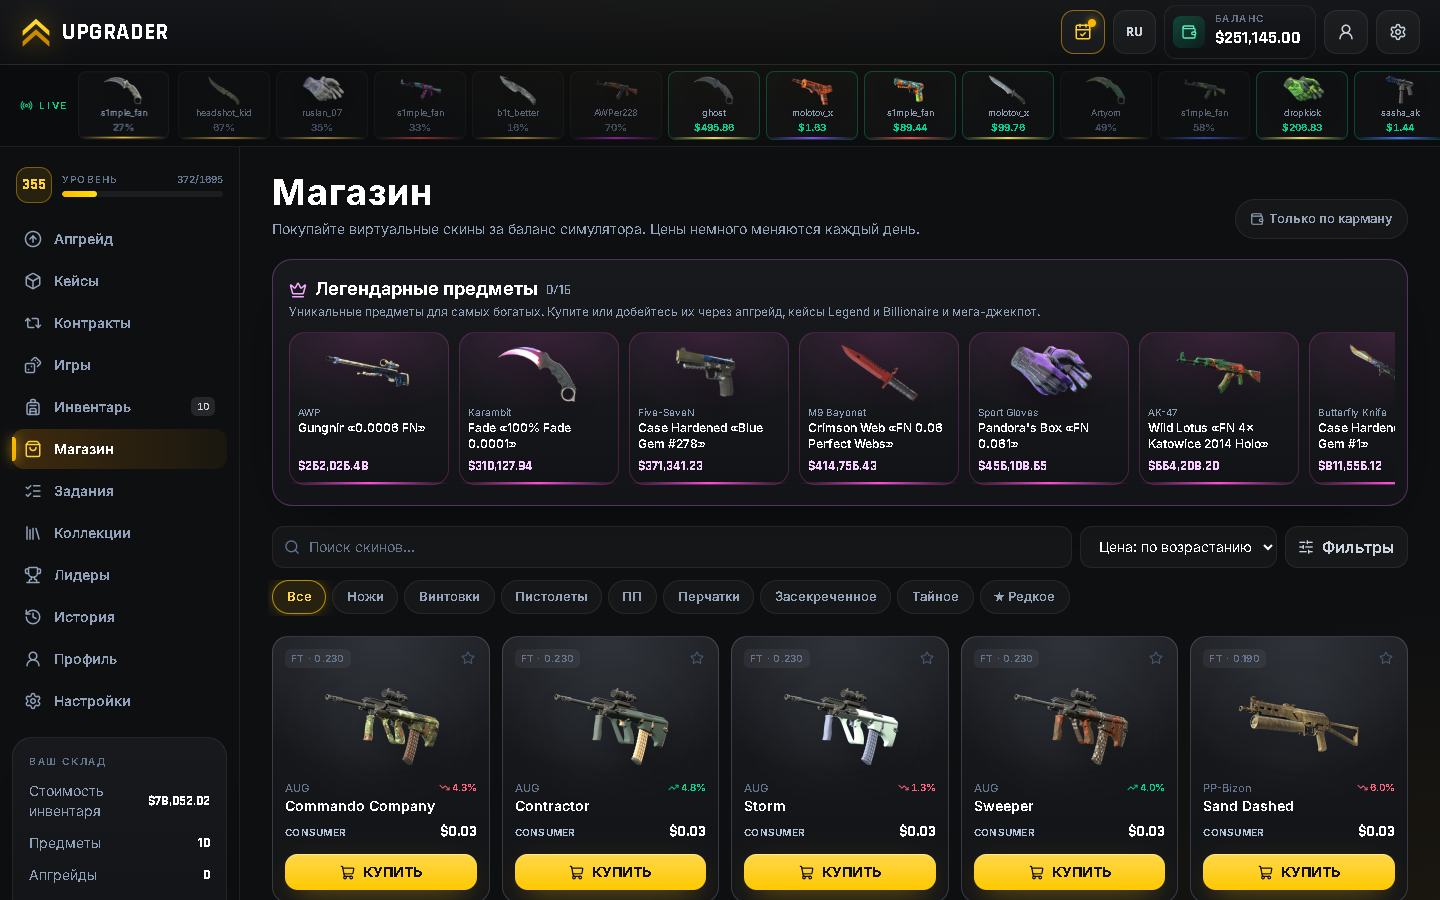
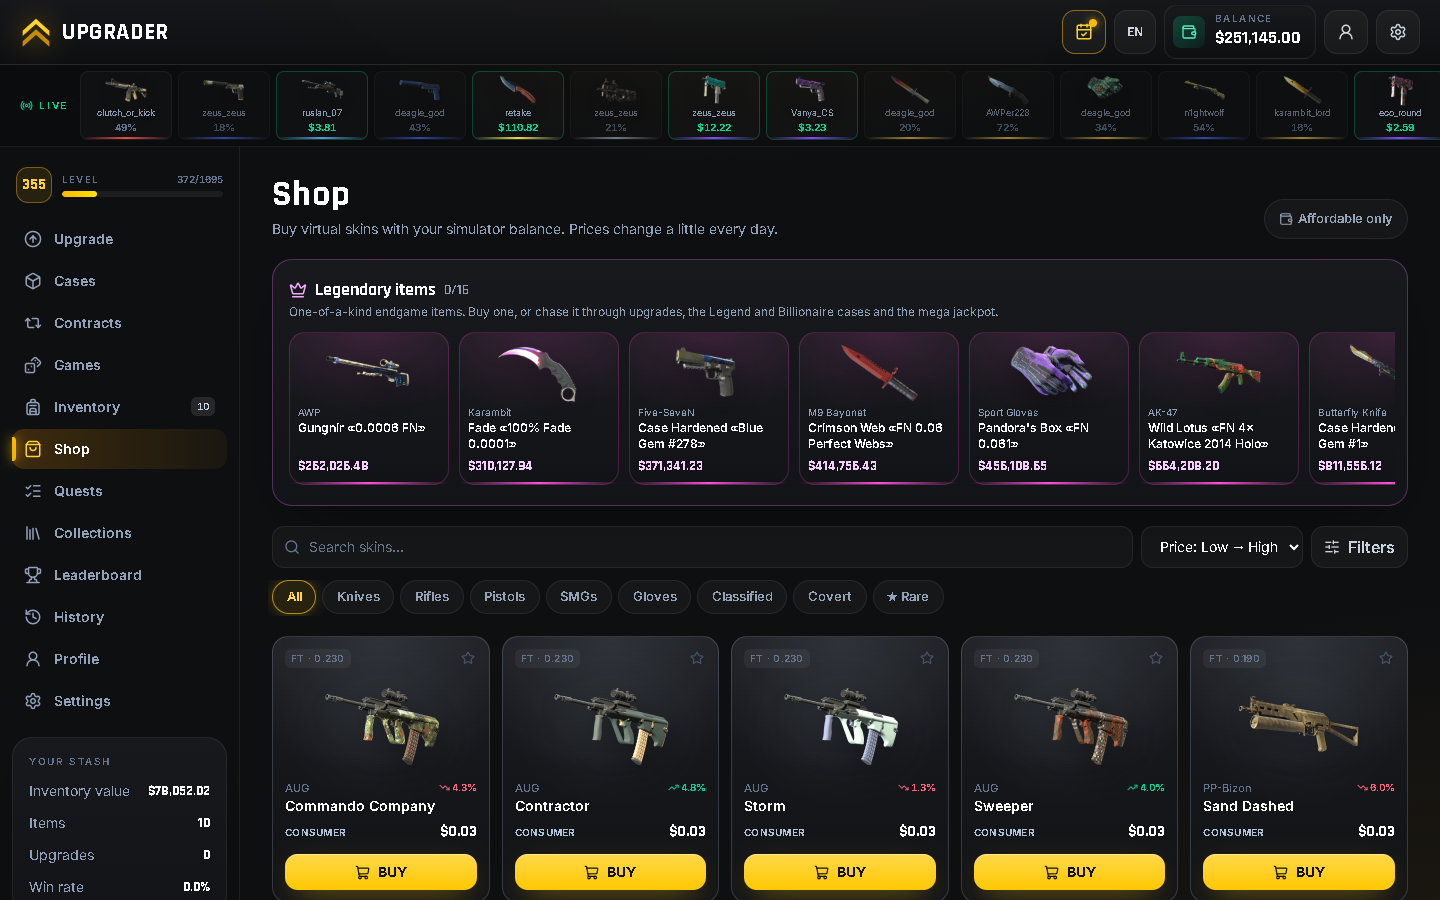
Translate README to English and retake screenshots in English

diff --git a/README.md b/README.md
@@ -1,109 +1,109 @@
 # Case Battle — CS2 Upgrader Simulator
 
-Браузерный симулятор CS2 с апгрейдами, кейсами, контрактами и мини-играми. Все деньги в нём виртуальные: нет депозитов, вывода средств и транзакций Steam. Прогресс хранится в браузере.
+A browser simulator of CS2 skin upgrades, cases, trade-up contracts and mini-games. All money is virtual. There are no deposits, withdrawals or Steam transactions. Progress is stored in your browser.
 
-**▶ Играть:** upgraader.netlify.app
+**▶ Play:** https://upgraader.netlify.app
 
-![Апгрейд](docs/screenshots/upgrade.png)
+![Upgrade](docs/screenshots/upgrade.png)
 
-## Возможности
+## Features
 
-- **Апгрейд.** Ставка из нескольких скинов и баланса, пресеты x2/x4/x8 и 35/55/75%. После серии проигрышей шанс немного растёт.
-- **1895 скинов.** Всё оружие, ножи и перчатки CS2 с картинками из Steam. Цены реальные (Skinport), отдельно для каждого износа (FN–BS) и StatTrak™, от $0.03 до $35 000. Каждый день цены немного колеблются.
-- **Легендарные предметы.** 16 уникальных предметов стоимостью от $250 тыс. до $100 млн: Karambit «Blue Gem #387», StatTrak Howl с 4× iBUYPOWER Holo, прототипы симулятора.
-- **53 кейса:**
-  - 42 официальных кейса CS2 с настоящим содержимым и шансами (Mil-Spec 79,92% … ★ 0,26%, StatTrak 10%);
-  - 11 кейсов для хайроллеров, от $1 до $1 000 000.
-- **Баттлы кейсов** против ботов, в том числе на самых дорогих кейсах.
-- **Мини-игры:**
-  - Джекпот;
-  - Дуэль 1×1;
-  - Мега-джекпот;
-  - Crash со ставкой деньгами или скином (до x900);
-  - Рулетка;
-  - Мины;
-  - Плинко;
-  - Монетка.
-- **Контракты обмена, трейды с ботами, наклейки.** Наклейки выпадают из 4 капсул, в том числе EMS Katowice 2014.
-- **Редкие узоры:** Ruby, Sapphire, Black Pearl, Blue Gem, Full Fade, сверхнизкий float.
-- **Прогресс:**
-  - уровни;
-  - 24 достижения;
-  - ежедневный бонус;
-  - ежедневные и недельные задания;
-  - боевой пропуск;
-  - 114 коллекций;
-  - таблица лидеров с ботами-миллионерами.
-- **Интерфейс:**
-  - русский и английский языки;
-  - 3 цветовые темы;
-  - звуковые пакеты;
-  - экспорт и импорт сохранения;
-  - установка как приложение (PWA) с работой офлайн.
+- **Upgrade:** stake several skins plus balance, with x2/x4/x8 and 35/55/75% presets. A small luck bonus kicks in after a losing streak.
+- **1,895 skins:** every CS2 weapon, knife and glove finish, with Steam artwork. Prices come from real Skinport data, per wear (FN–BS) and StatTrak™, and range from $0.03 to $35,000. They drift a little every day.
+- **Legendary items:** 16 one-of-a-kind items from $250K to $100M, such as Karambit «Blue Gem #387», StatTrak Howl with 4× iBUYPOWER Holo, and simulator prototypes.
+- **53 cases:**
+  - 42 official CS2 cases with their real contents and odds (Mil-Spec 79.92% … ★ 0.26%, StatTrak 10%);
+  - 11 high-roller cases from $1 to $1,000,000.
+- **Case battles** against bots, including on the most expensive cases.
+- **Mini-games:**
+  - Jackpot;
+  - Duel 1v1;
+  - Mega jackpot;
+  - Crash with money or skins (up to x900);
+  - Roulette;
+  - Mines;
+  - Plinko;
+  - Coinflip.
+- **Trade-up contracts, bot trades and stickers.** Stickers come from 4 capsules, including EMS Katowice 2014.
+- **Rare patterns:** Ruby, Sapphire, Black Pearl, Blue Gem, Full Fade and ultra-low float.
+- **Progression:**
+  - levels;
+  - 24 achievements;
+  - daily bonus;
+  - daily and weekly quests;
+  - battle pass;
+  - 114 collections;
+  - a leaderboard with millionaire bots.
+- **Interface:**
+  - English and Russian;
+  - 3 color themes;
+  - sound packs;
+  - save export and import;
+  - installable as an app (PWA) with offline support.
 
-| Магазин и легенды | Кейсы |
+| Shop & legends | Cases |
 |---|---|
-| ![Магазин](docs/screenshots/shop.png) | ![Кейсы](docs/screenshots/cases.png) |
-| **Мега-джекпот** | **Лидеры** |
-| ![Мега-джекпот](docs/screenshots/mega-jackpot.png) | ![Лидеры](docs/screenshots/leaderboard.png) |
+| ![Shop](docs/screenshots/shop.png) | ![Cases](docs/screenshots/cases.png) |
+| **Mega jackpot** | **Leaderboard** |
+| ![Mega jackpot](docs/screenshots/mega-jackpot.png) | ![Leaderboard](docs/screenshots/leaderboard.png) |
 
-## Честность
+## Fairness
 
-- **Результат решается заранее.** Каждый исход определяется через `crypto.getRandomValues()` до начала анимации и сразу сохраняется, поэтому перезагрузка страницы его не отменяет.
-- **Выигрыш показывается после анимации.** В балансе и инвентаре он появляется только когда анимация закончилась.
-- **Отдача:**
-  - кейсы и капсулы в среднем возвращают 90% цены;
-  - контракты возвращают 95%;
-  - в джекпотах, апгрейде, crash и монетке преимущество казино около 5%;
-  - в рулетке преимущество около 6,7% (15 ячеек).
-- **Где настраивается:** `src/utils/config.ts`, `src/data/cases.ts` и `src/data/capsules.ts`.
+- **Decided before the animation.** Every outcome comes from `crypto.getRandomValues()` before the animation starts and is saved immediately, so reloading the page cannot change it.
+- **Shown after the animation.** Winnings appear in your balance and inventory only once the animation finishes.
+- **Return rates:**
+  - cases and capsules return 90% of their price on average;
+  - contracts return 95%;
+  - jackpots, upgrades, crash and coinflip have about a 5% house edge;
+  - roulette has about a 6.7% house edge (15 slots).
+- **Where to tune them:** `src/utils/config.ts`, `src/data/cases.ts` and `src/data/capsules.ts`.
 
-## Запуск локально
+## Running locally
 
-Нужен [Node.js](https://nodejs.org/) 20 или новее.
+Requires [Node.js](https://nodejs.org/) 20 or newer.
 
 ```bash
 npm install
 npm run dev        # http://localhost:5173
 ```
 
-| Команда | Что делает |
+| Command | What it does |
 |---|---|
-| `npm run dev` | Сервер разработки |
-| `npm run build` | Проверка типов и сборка в `dist/` |
-| `npm run preview` | Запуск собранной версии |
-| `npm run catalog` | Заново скачивает скины, кейсы, наклейки и актуальные цены |
+| `npm run dev` | Development server |
+| `npm run build` | Type check and build into `dist/` |
+| `npm run preview` | Serve the production build |
+| `npm run catalog` | Re-download skins, cases, stickers and current prices |
 
-## Публикация
+## Deployment
 
-Каждый push в ветку `main` собирает сайт и публикует его на GitHub Pages ([.github/workflows/deploy.yml](.github/workflows/deploy.yml)).
+Every push to `main` builds the site and publishes it to GitHub Pages ([.github/workflows/deploy.yml](.github/workflows/deploy.yml)).
 
-При первом запуске Pages нужно включить вручную. Откройте **Settings → Pages**, в поле **Source** выберите **GitHub Actions**.
+Pages must be enabled once by hand: open **Settings → Pages** and set **Source** to **GitHub Actions**.
 
-Сборка использует относительные пути, поэтому папку `dist/` можно выложить и на любой другой статический хостинг: Netlify, Vercel, Cloudflare Pages.
+The build uses relative paths, so `dist/` also works on any other static host, such as Netlify, Vercel or Cloudflare Pages.
 
-## Стек и структура
+## Tech stack and structure
 
-React 19, TypeScript, Vite, Tailwind CSS v4, lucide-react. Бэкенда нет, всё состояние хранится в LocalStorage.
+React 19, TypeScript, Vite, Tailwind CSS v4 and lucide-react. There is no backend: all state lives in LocalStorage.
 
 ```
 src/
-  data/        каталог скинов, кейсы, наклейки, легенды, коллекции
-  store/       состояние игры: чистые переходы и сохранение
-  utils/       движки апгрейда, кейсов, игр и ботов
-  components/  интерфейс: рулетки, игры, карточки
-  pages/       страницы приложения
-  i18n/        переводы RU / EN
+  data/        skin catalog, cases, stickers, legendary items, collections
+  store/       game state: pure transitions and persistence
+  utils/       upgrade, case, game and bot engines
+  components/  UI: roulettes, games, cards
+  pages/       app pages
+  i18n/        EN / RU translations
 scripts/
-  build-catalog.mjs   генератор каталога
+  build-catalog.mjs   catalog generator
 public/
   sw.js, manifest     PWA
 ```
 
-## Источники данных
+## Data sources
 
-- Скины, кейсы и наклейки: [ByMykel/CSGO-API](https://github.com/ByMykel/CSGO-API).
-- Цены: публичный API [Skinport](https://docs.skinport.com/).
-- Картинки загружаются с CDN Steam.
+- Skins, cases and stickers: [ByMykel/CSGO-API](https://github.com/ByMykel/CSGO-API).
+- Prices: the public [Skinport](https://docs.skinport.com/) API.
+- Images are loaded from the Steam CDN.
 
-Проект создан в развлекательных целях и не связан с Valve или Steam. Counter-Strike и названия предметов принадлежат их правообладателям.
+This is a fan project for entertainment only and is not affiliated with Valve or Steam. Counter-Strike and item names belong to their respective owners.
